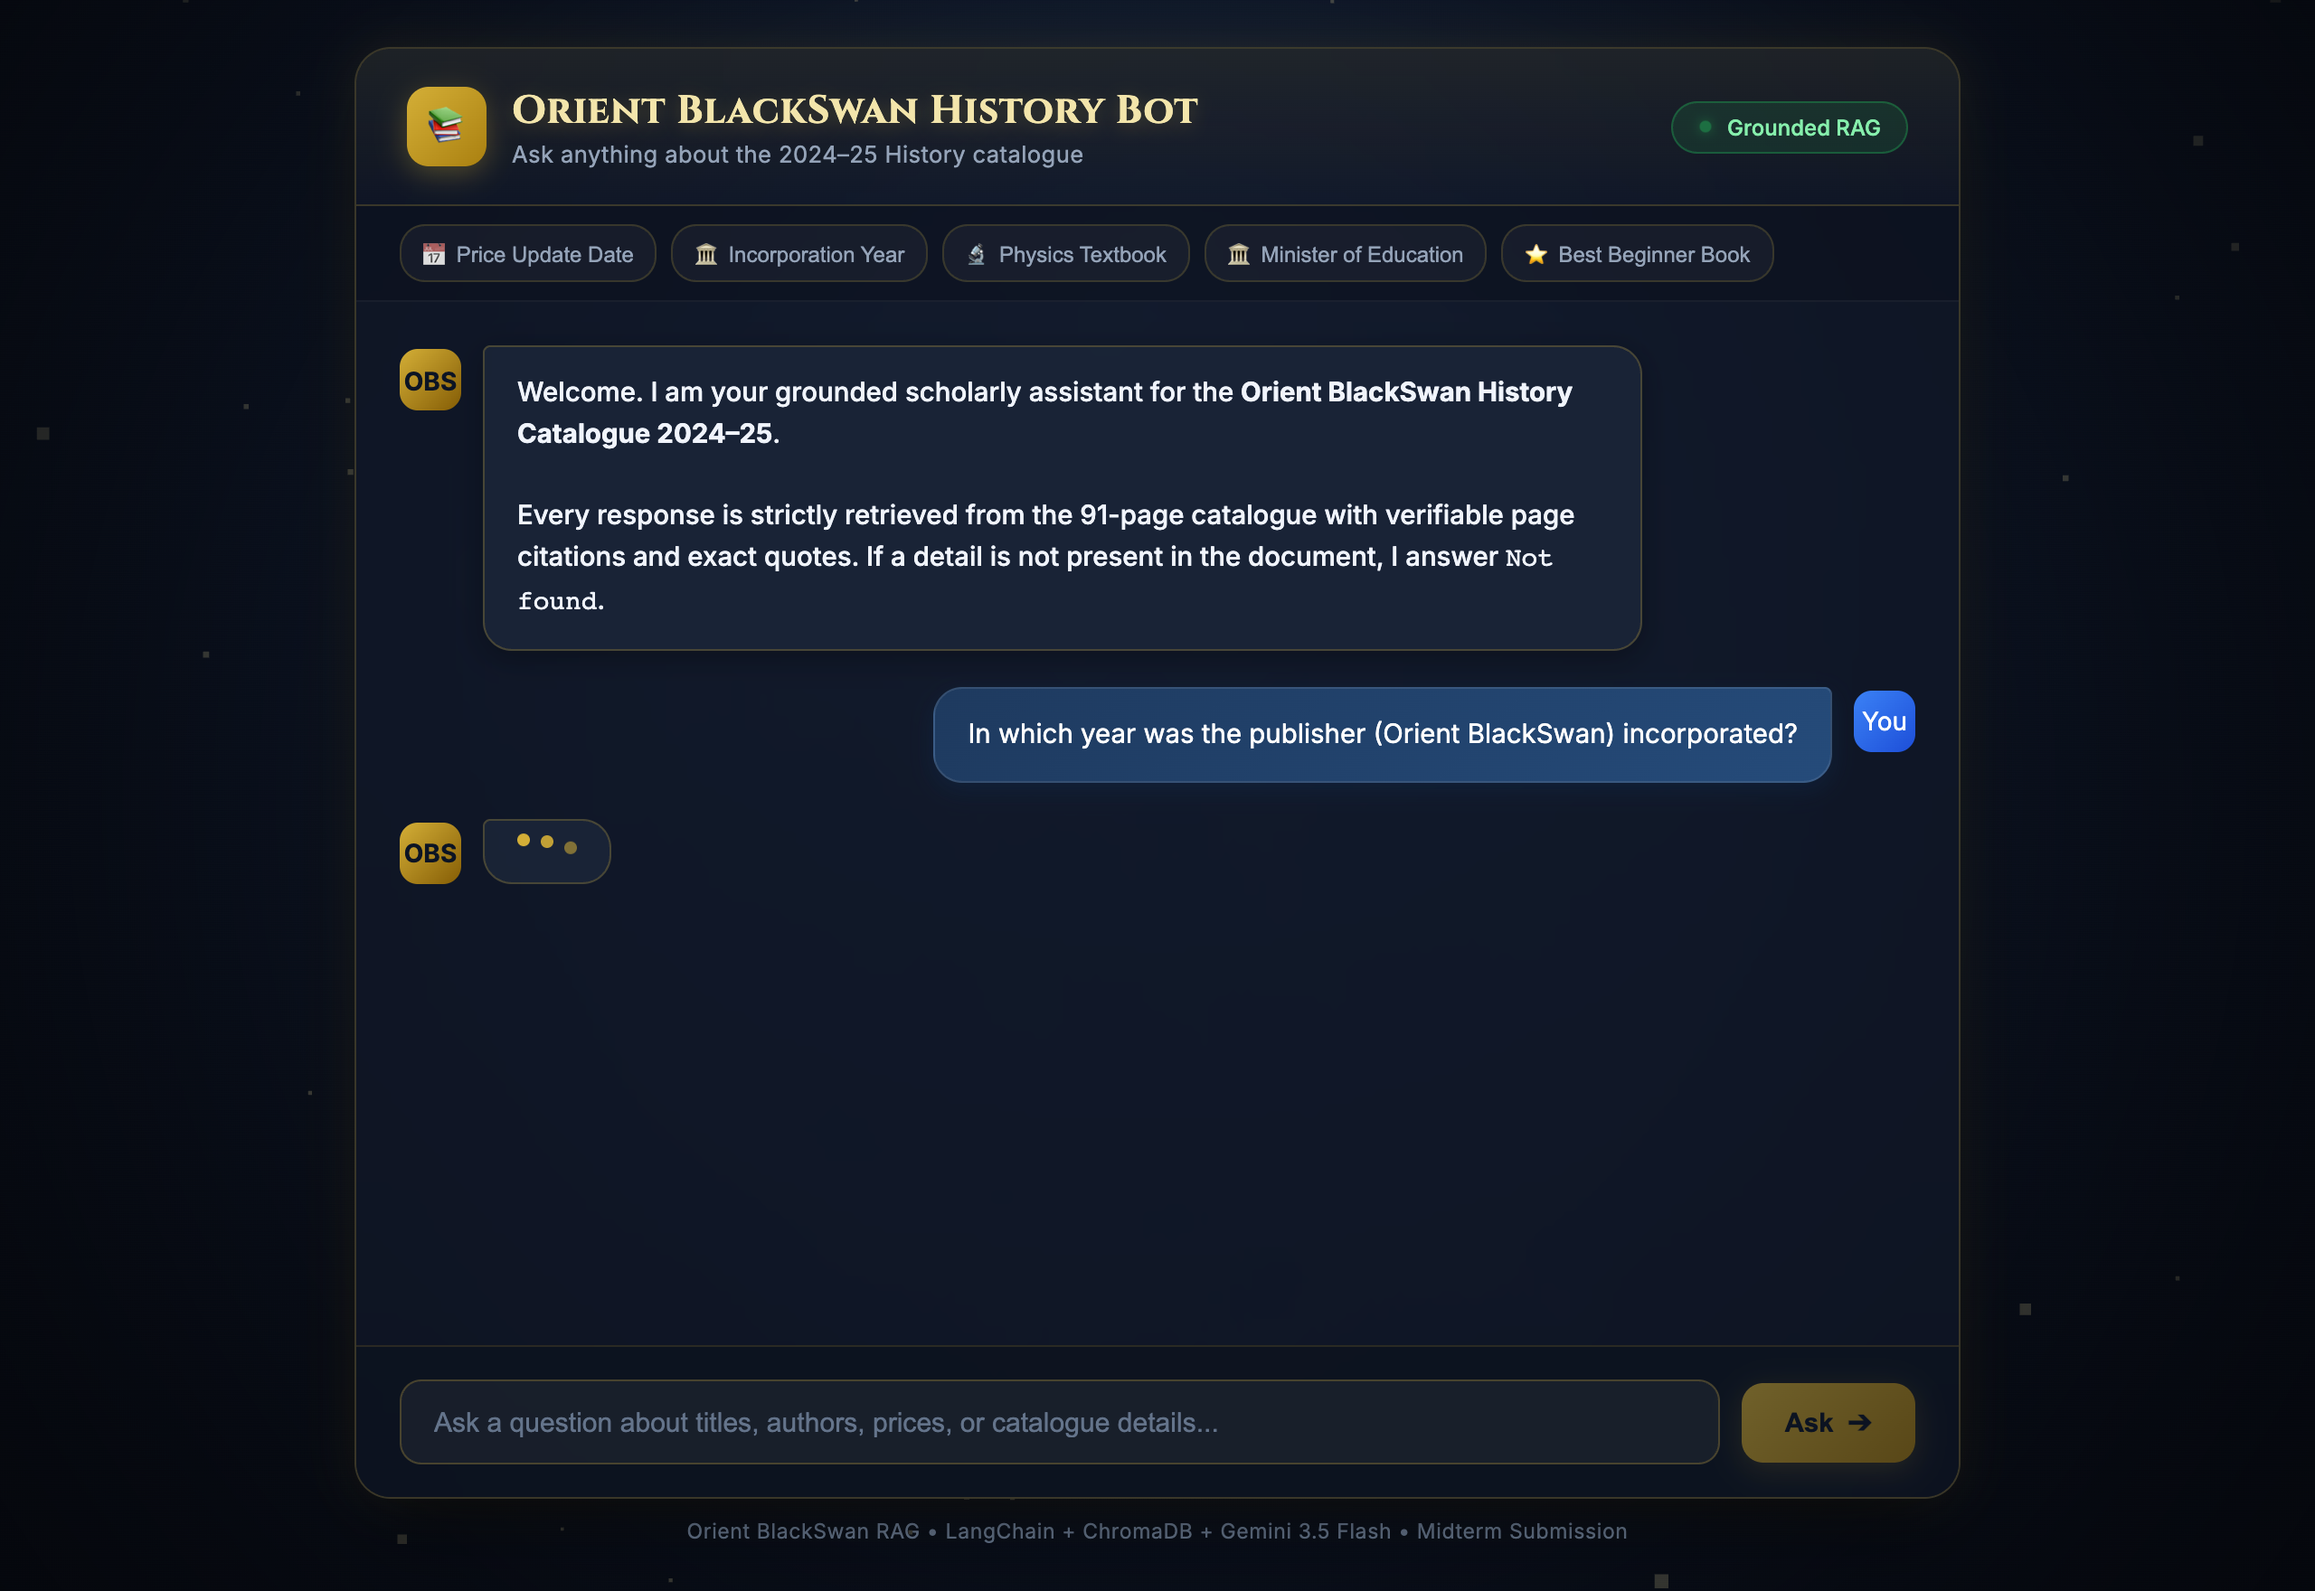
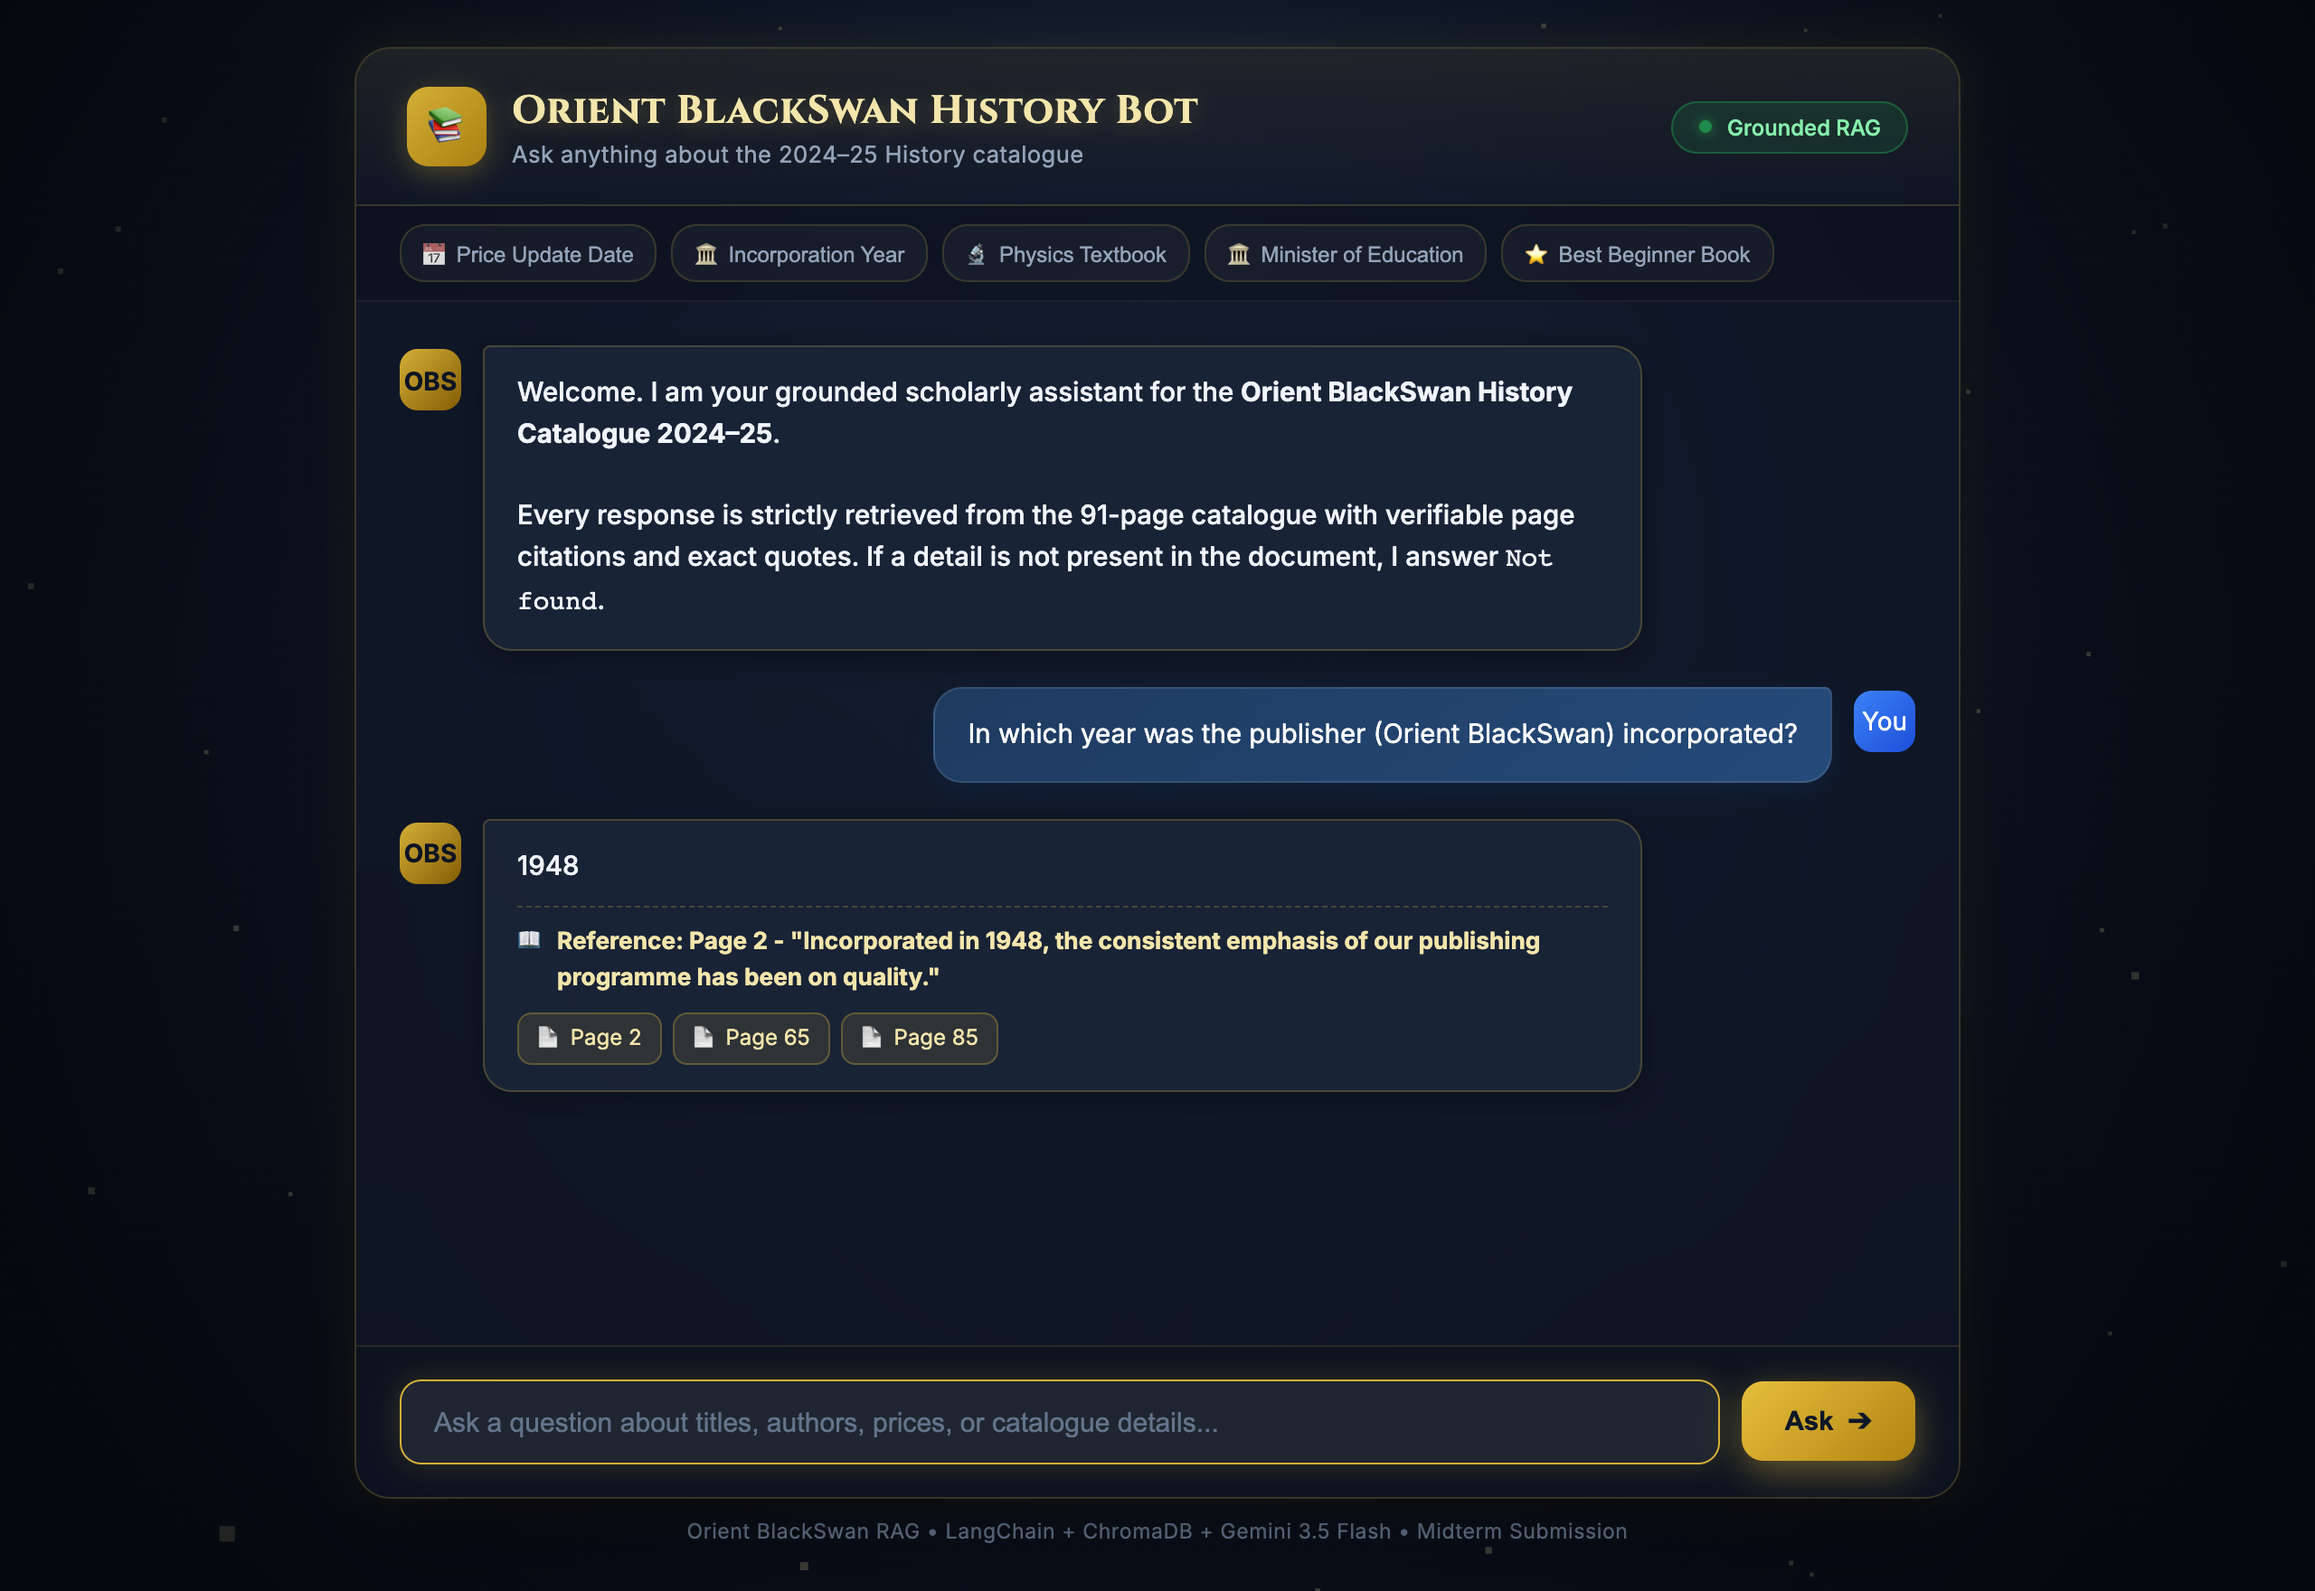
Fix capture_screenshots wait logic and update verified screenshots

Changed region(s): [[0.2188, 0.5312, 0.6562, 0.6875], [0.75, 0.8438, 0.8438, 0.9375]]

diff --git a/capture_screenshots.py b/capture_screenshots.py
@@ -2,6 +2,7 @@
 """
 capture_screenshots.py - Automatically captures interaction screenshots for Q1-Q5
 and evaluate.py console output using Playwright.
+Waits until the typing indicator completely disappears and the bot answer is fully visible.
 """
 import time
 import subprocess
@@ -19,11 +20,12 @@ QUESTIONS = [
     ("q5", "Which is the \"best\" history book for a beginner?"),
 ]
 
+
 def capture_chat_screenshots():
     with sync_playwright() as p:
         browser = p.chromium.launch(
             executable_path="/Applications/Google Chrome.app/Contents/MacOS/Google Chrome",
-            headless=True
+            headless=True,
         )
         context = browser.new_context(
             viewport={"width": 1280, "height": 880},
@@ -31,35 +33,62 @@ def capture_chat_screenshots():
         )
 
         for filename, question in QUESTIONS:
-            print(f"[*] Capturing screenshot for {filename}: {question}")
+            print(f"\n[*] Processing {filename.upper()}: {question}")
             page = context.new_page()
             page.goto("http://localhost:8000/")
-            page.wait_for_selector("#user-input")
+            page.wait_for_selector("#user-input", state="visible", timeout=15000)
             time.sleep(1)
 
             # Type question and send
             page.fill("#user-input", question)
             page.click("#send-button")
 
-            # Wait for response to be rendered
-            page.wait_for_selector(".message-row.bot:nth-of-type(3)", timeout=35000)
-            time.sleep(2)  # Settle animations
+            # 1. Wait for typing indicator to appear
+            try:
+                page.wait_for_selector("#typing-bubble", state="attached", timeout=5000)
+                print("    - Typing indicator displayed...")
+            except Exception:
+                pass
 
+            # 2. Explicitly wait until the typing indicator disappears (timeout 60s)
+            print("    - Waiting for typing indicator to disappear (max 60s)...")
+            page.wait_for_selector("#typing-bubble", state="detached", timeout=60000)
+
+            # 3. Wait for the bot answer bubble to be visible
+            print("    - Waiting for bot answer bubble to be visible...")
+            page.wait_for_function(
+                "() => document.querySelectorAll('.message-row.bot:not(#typing-bubble)').length >= 2",
+                timeout=60000,
+            )
+            page.wait_for_selector(
+                ".message-row.bot:not(#typing-bubble):last-child .bubble",
+                state="visible",
+                timeout=60000,
+            )
+
+            # 4. Wait 1 more second as required
+            time.sleep(1.5)
+
+            # Verify answer text in DOM
+            last_bot_el = page.locator(".message-row.bot:not(#typing-bubble)").last
+            answer_text = last_bot_el.inner_text().replace("\n", " ").strip()
+            print(f"    - VERIFIED DOM ANSWER: {answer_text[:120]}...")
+
+            # 5. Capture screenshot
             out_path = SCREENSHOTS_DIR / f"{filename}.png"
             page.screenshot(path=str(out_path), full_page=False)
-            print(f"    - Saved {out_path}")
+            print(f"    - Saved screenshot to {out_path}")
             page.close()
 
         # Capture evaluation output screenshot
-        print("[*] Generating evaluate.png terminal snapshot...")
+        print("\n[*] Generating evaluate.png terminal snapshot...")
         eval_proc = subprocess.run(
             [".venv/bin/python", "evaluate.py"],
             capture_output=True,
-            text=True
+            text=True,
         )
         eval_output = eval_proc.stdout
 
-        # Render terminal output in a realistic macOS dark terminal window
         term_html = f"""<!DOCTYPE html>
 <html>
 <head>
@@ -68,20 +97,20 @@ def capture_chat_screenshots():
   body {{
     background: #080d18;
     color: #e2e8f0;
-    font-family: ui-monospace, Menlo, Monaco, "Cascadia Mono", "Segoe UI Mono", monospace;
+    font-family: ui-monospace, Menlo, Monaco, "Cascadia Mono", monospace;
     display: flex;
     justify-content: center;
     align-items: center;
     min-height: 100vh;
     margin: 0;
-    padding: 24px;
+    padding: 30px;
     box-sizing: border-box;
   }}
   .terminal {{
-    width: 900px;
+    width: 860px;
     background: #0d1117;
     border-radius: 12px;
-    border: 1px solid rgba(212, 175, 55, 0.3);
+    border: 1px solid rgba(212, 175, 55, 0.35);
     box-shadow: 0 25px 50px -12px rgba(0, 0, 0, 0.8), 0 0 25px rgba(212, 175, 55, 0.15);
     overflow: hidden;
   }}
@@ -104,14 +133,12 @@ def capture_chat_screenshots():
     font-weight: 500;
   }}
   .term-body {{
-    padding: 20px 24px;
+    padding: 22px 26px;
     font-size: 13.5px;
     line-height: 1.55;
     white-space: pre-wrap;
     color: #f1f5f9;
   }}
-  .highlight {{ color: #22c55e; font-weight: bold; }}
-  .gold {{ color: #d4af37; }}
 </style>
 </head>
 <body>
@@ -126,19 +153,16 @@ def capture_chat_screenshots():
   </div>
 </body>
 </html>"""
-        term_file = Path("screenshots/temp_eval.html")
-        term_file.write_text(term_html, encoding="utf-8")
-
         term_page = context.new_page()
-        term_page.goto(f"file://{term_file.resolve()}")
+        term_page.set_content(term_html)
         time.sleep(1)
         term_page.screenshot(path=str(SCREENSHOTS_DIR / "evaluate.png"))
         print("    - Saved screenshots/evaluate.png")
         term_page.close()
-        term_file.unlink(missing_ok=True)
 
         browser.close()
-        print("[*] All screenshots captured successfully!")
+        print("\n[*] All screenshots captured and verified successfully!")
+
 
 if __name__ == "__main__":
     capture_chat_screenshots()

diff --git a/config.py b/config.py
@@ -21,7 +21,7 @@ EMBEDDING_MODEL_NAME = os.getenv(
 )
 
 # Configurable Gemini model: defaults to high-availability gemini-3.5-flash-lite
-LLM_MODEL = os.getenv("LLM_MODEL") or os.getenv("GEMINI_MODEL") or "gemini-3.5-flash-lite"
+LLM_MODEL = os.getenv("LLM_MODEL") or "gemini-3.5-flash-lite"
 
 SYSTEM_PROMPT = """You are a strict document question-answering assistant for the Orient BlackSwan History Catalogue 2024–25.
 

diff --git a/results.md b/results.md
@@ -1,6 +1,6 @@
 # Evaluation Results — Orient BlackSwan History Bot
 
-**Date:** 2026-10-23 15:43:10  
+**Date:** 2026-10-23 16:13:43  
 **Score:** 5/5 (100% Passed)
 
 ---
@@ -9,7 +9,7 @@
 
 | ID | Question | Expected Answer | Actual Answer | Status |
 |---|---|---|---|---|
-| **Q1** | On what date were the prices in this catalogue last updated? | `20-01-2025` | 20-01-2025 <br> Reference: Page 4 - "Prices updated on 20-01-2025." | **PASS** |
+| **Q1** | On what date were the prices in this catalogue last updated? | `20-01-2025` | 20-01-2025 <br>  <br> Reference: Page 4 - "Prices updated on 20-01-2025." | **PASS** |
 | **Q2** | In which year was the publisher (Orient BlackSwan) incorporated? | `1948` | 1948 <br> Reference: Page 2 - "Incorporated in 1948, the consistent emphasis of our publishing programme has been on quality." | **PASS** |
 | **Q3** | What is the price of a Physics textbook? | `Not found` | Not found | **PASS** |
 | **Q4** | Who is the current Minister of Education? | `Not found` | Not found | **PASS** |
@@ -26,12 +26,13 @@
 - **Actual Answer:**
 ```
 20-01-2025
+
 Reference: Page 4 - "Prices updated on 20-01-2025."
 ```
 - **Reference Page:** Page 4
 - **Supporting Quote:** *"Prices updated on 20-01-2025."*
 - **Sources Retrieved:** 3
-- **Latency:** 12.24s
+- **Latency:** 9.96s
 
 ### [Q2] In which year was the publisher (Orient BlackSwan) incorporated?
 
@@ -45,7 +46,7 @@ Reference: Page 2 - "Incorporated in 1948, the consistent emphasis of our publis
 - **Reference Page:** Page 2
 - **Supporting Quote:** *"Incorporated in 1948, the consistent emphasis of our publishing programme has been on quality."*
 - **Sources Retrieved:** 3
-- **Latency:** 2.79s
+- **Latency:** 0.74s
 
 ### [Q3] What is the price of a Physics textbook?
 
@@ -56,7 +57,7 @@ Reference: Page 2 - "Incorporated in 1948, the consistent emphasis of our publis
 Not found
 ```
 - **Sources Retrieved:** 0
-- **Latency:** 5.44s
+- **Latency:** 1.05s
 
 ### [Q4] Who is the current Minister of Education?
 
@@ -67,7 +68,7 @@ Not found
 Not found
 ```
 - **Sources Retrieved:** 0
-- **Latency:** 1.97s
+- **Latency:** 0.81s
 
 ### [Q5] Which is the "best" history book for a beginner?
 
@@ -78,5 +79,5 @@ Not found
 Not found
 ```
 - **Sources Retrieved:** 0
-- **Latency:** 1.8s
+- **Latency:** 0.82s
 
